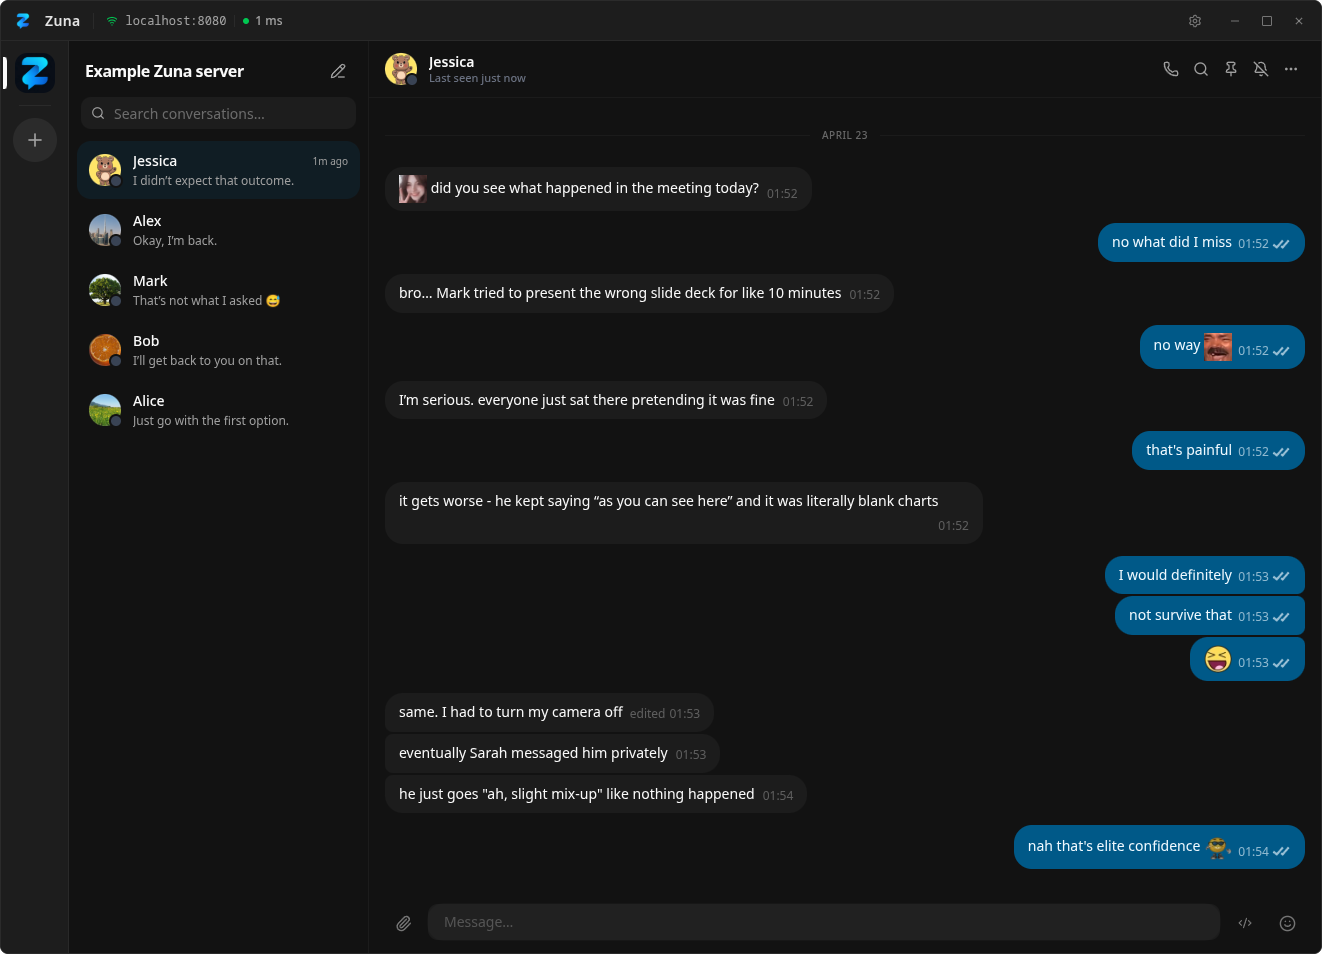
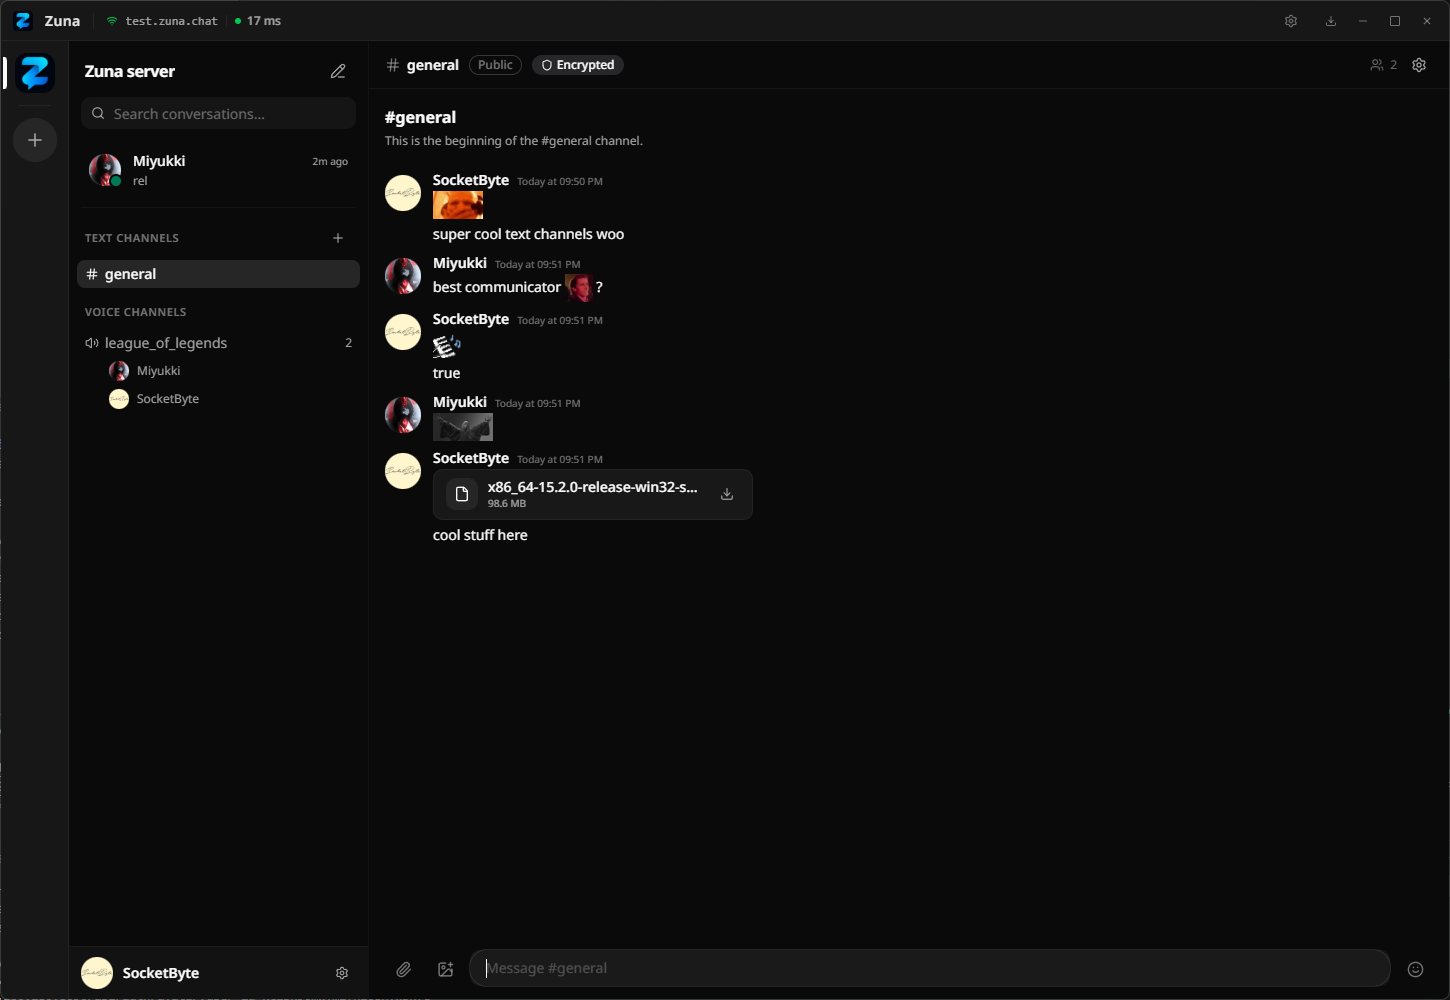
update README

diff --git a/README.md b/README.md
@@ -85,6 +85,12 @@
   <img src=".github/resources/screenshot_1.png" alt="Zuna screenshot 1" width="31%" />
   <img src=".github/resources/screenshot_2.png" alt="Zuna screenshot 2" width="31%" />
   <img src=".github/resources/screenshot_3.png" alt="Zuna screenshot 3" width="31%" />
+  <img src=".github/resources/screenshot_4.png" alt="Zuna screenshot 3" width="31%" />
+</p>
+
+<p align="center">
+  <img src=".github/resources/screenshot_5.png" alt="Zuna screenshot 1" width="31%" />
+  <img src=".github/resources/screenshot_6.png" alt="Zuna screenshot 2" width="31%" />
 </p>
 
 ---
